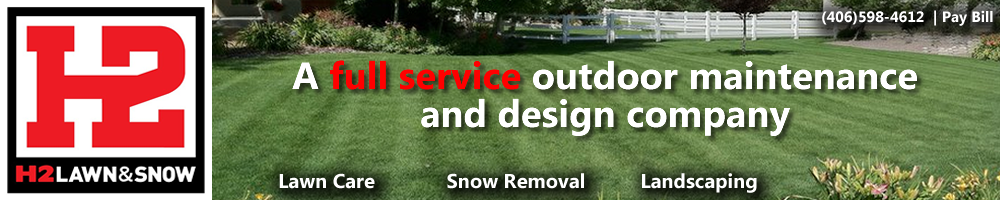
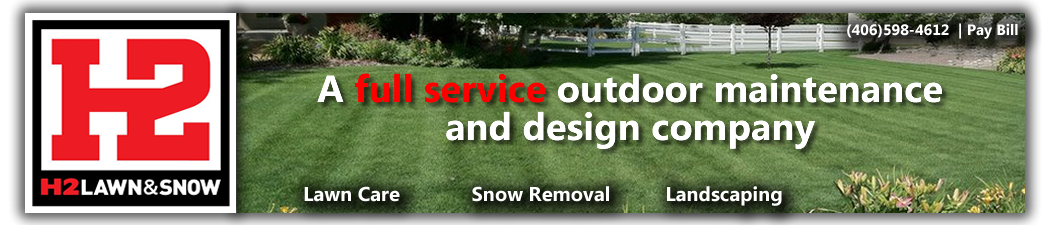
tweaked layout and added slide show holder

diff --git a/app/assets/stylesheets/application.css b/app/assets/stylesheets/application.css
@@ -20,13 +20,12 @@ body {
 }
 
 .container {
-	width: 1100px;
-	margin-right: auto;
-	margin-left: auto;
+	background-image: url("background.png");
 }
 
 /* Header Styling */
 .header {
+	margin-left: 80px;
 	padding-top: 5px;
 	padding-left: 20px;
 }
@@ -35,9 +34,10 @@ body {
 .main {
 	background-image: url("main_background.png");
 	background-repeat: no-repeat;
+	margin-left: 100px;
 	padding-top: 0px;
 	width: 1100px;
-	height: 700px;
+	height: 600px;
 }
 
 div#one {
@@ -56,6 +56,12 @@ div#three {
 	padding-top: 25px;
 	padding-left: 90px;
 	display: none;
+}
+
+/* Slide Show Styling */
+.slide {
+	padding-top: 0px;
+	margin-left: 30px;
 }
 
 /* Footer Styling */
